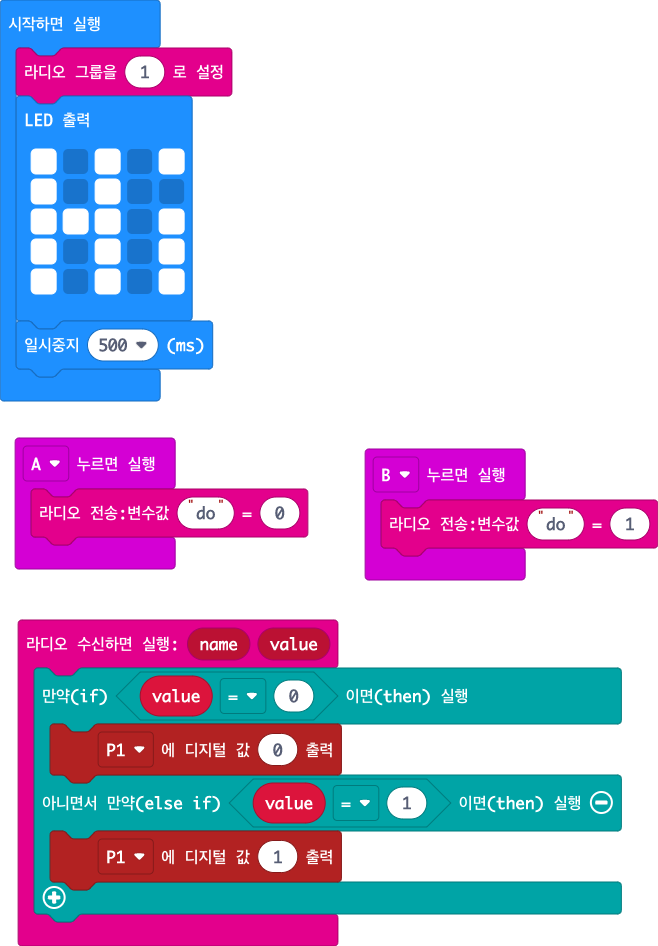
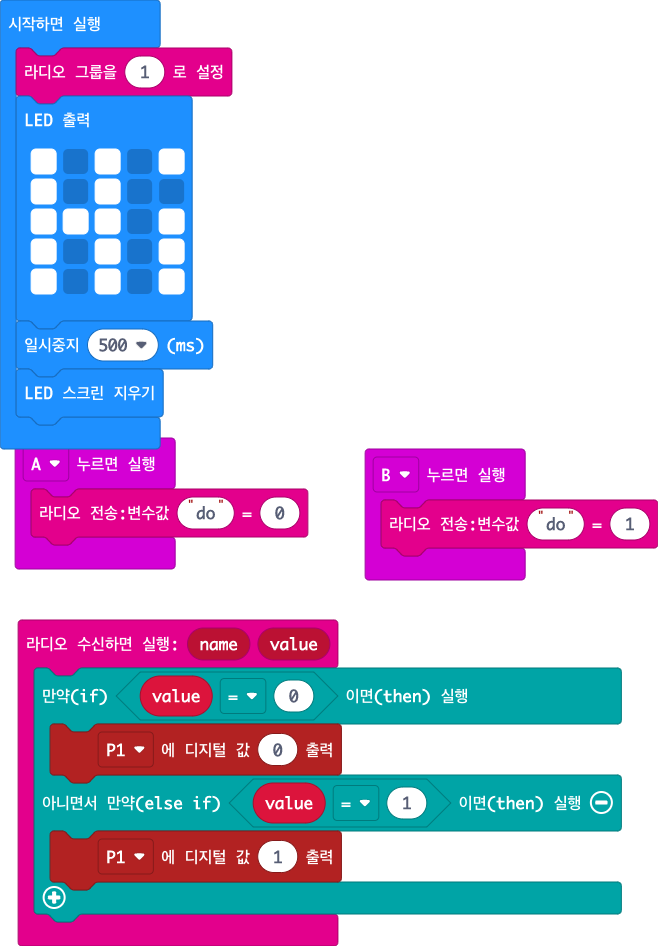
일시중지하고 LED 스크린을 지우는 동작을 추가하였습니다.

Changed region(s): [[0.0, 0.3985, 0.2736, 0.4905]]

diff --git a/main.ts b/main.ts
@@ -20,3 +20,4 @@ basic.showLeds(`
     # . # . #
     `)
 basic.pause(500)
+basic.clearScreen()

diff --git a/main.py b/main.py
@@ -1,0 +1,24 @@
+def on_button_pressed_a():
+    radio.send_value("do", 0)
+input.on_button_pressed(Button.A, on_button_pressed_a)
+
+def on_button_pressed_b():
+    radio.send_value("do", 1)
+input.on_button_pressed(Button.B, on_button_pressed_b)
+
+def on_received_value(name, value):
+    if value == 0:
+        pins.digital_write_pin(DigitalPin.P1, 0)
+    elif value == 1:
+        pins.digital_write_pin(DigitalPin.P1, 1)
+radio.on_received_value(on_received_value)
+
+radio.set_group(1)
+basic.show_leds("""
+    # . # . #
+        # . # . .
+        # # # . #
+        # . # . #
+        # . # . #
+""")
+basic.pause(500)
